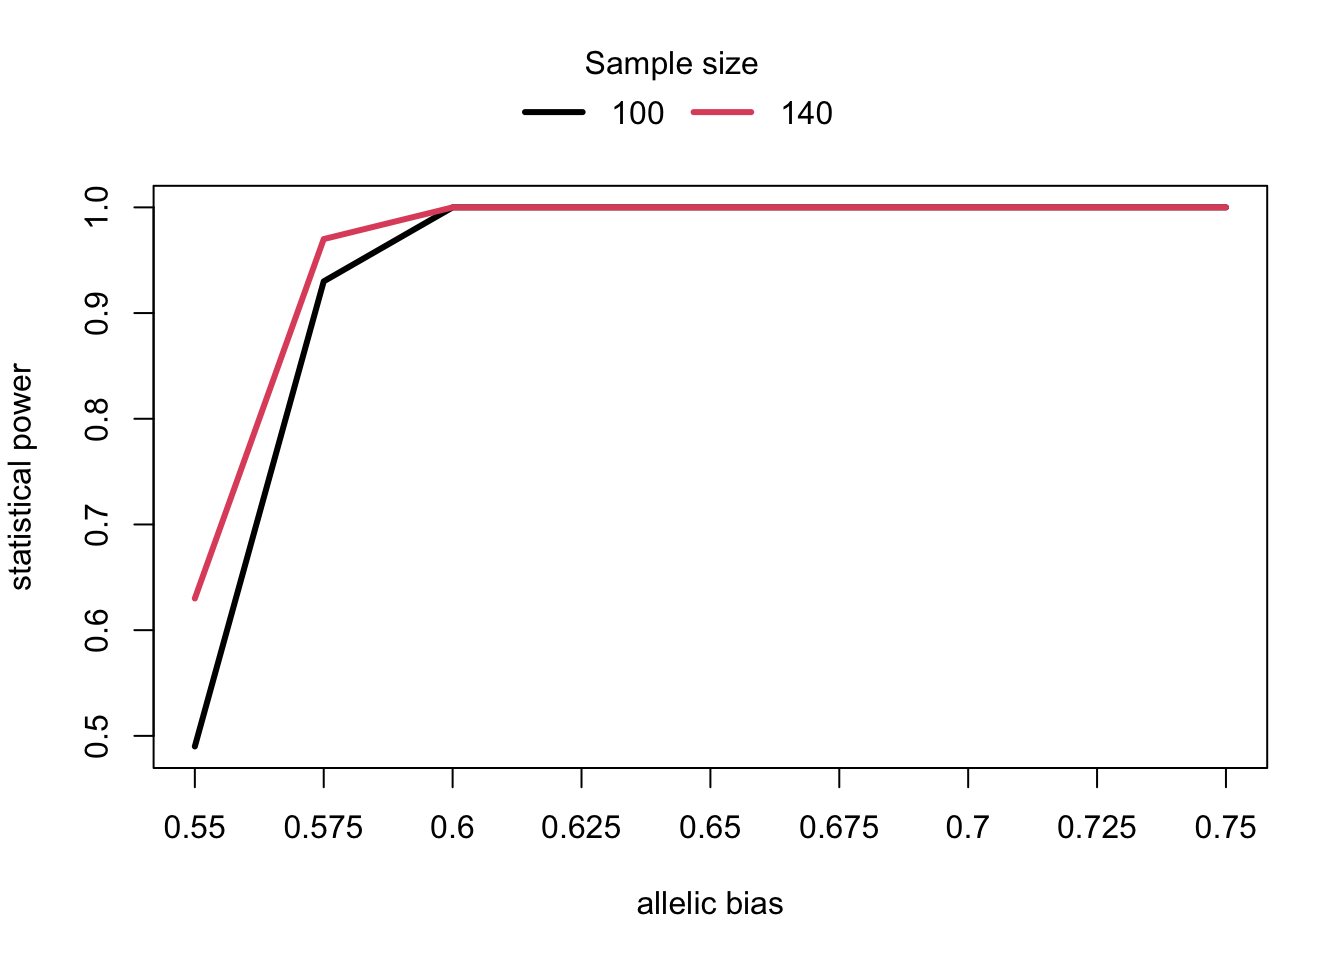
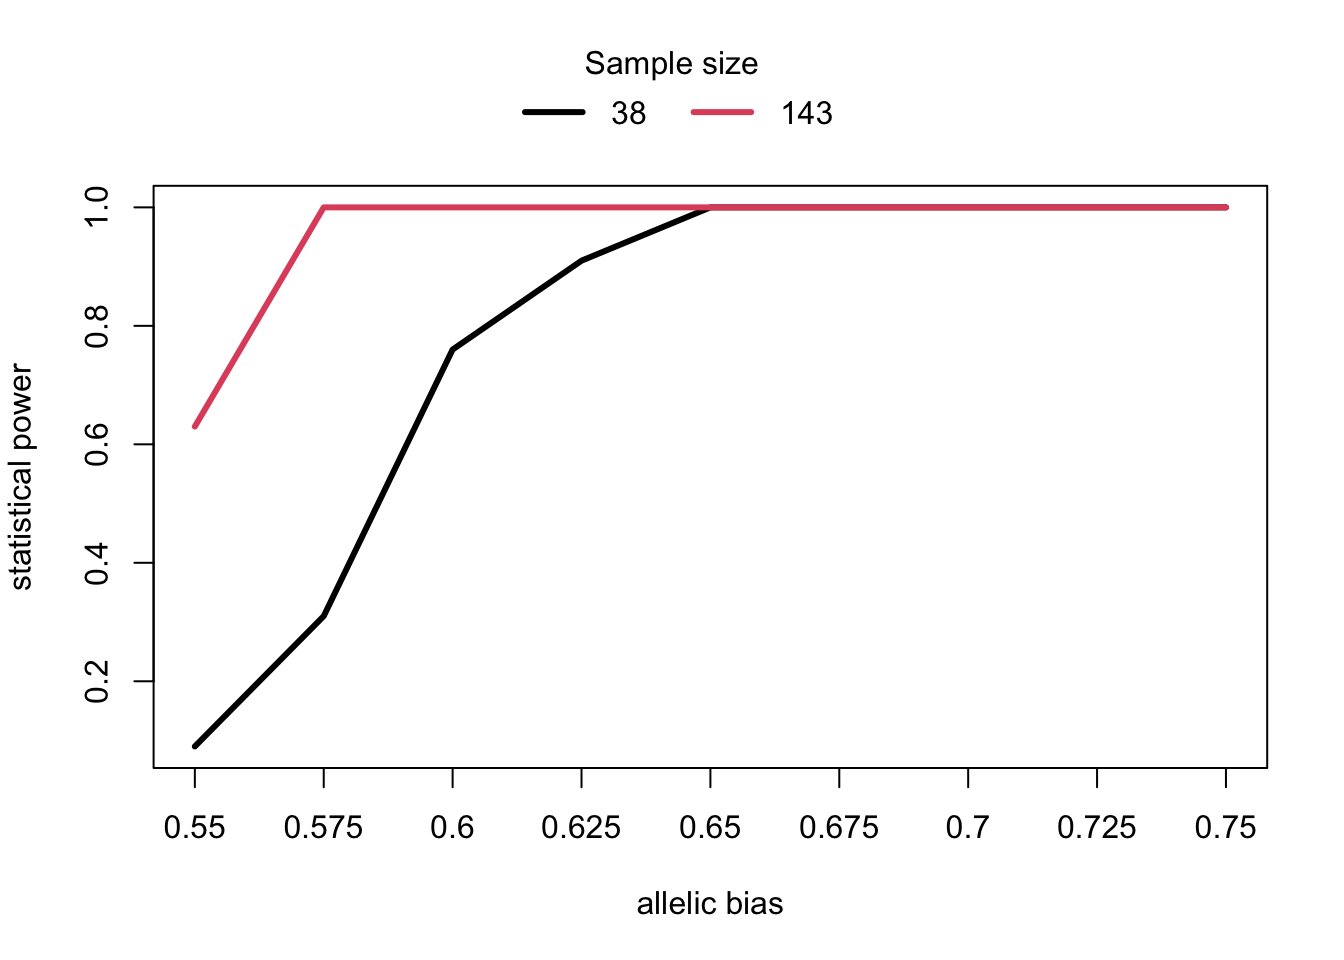
Build site.

diff --git a/docs/power_analysis.html b/docs/power_analysis.html
@@ -399,7 +399,7 @@ class="glyphicon glyphicon-ok text-success" aria-hidden="true"></span>
 <div class="tab-content">
 <div id="summary" class="tab-pane fade in active">
 <p>
-<strong>Last updated:</strong> 2025-10-27
+<strong>Last updated:</strong> 2025-10-28
 </p>
 <p>
 <strong>Checks:</strong> <span
@@ -530,15 +530,15 @@ project makes it easier to run your code on other machines.</p>
 <div class="panel panel-default">
 <div class="panel-heading">
 <p class="panel-title">
-<a data-toggle="collapse" data-parent="#workflowr-checks" href="#strongRepositoryversionstrongahrefhttpsgithubcomLifanLiangneuronstimeQTL100treec6d665509231edc81b34f6407d2796df5a46211etargetblankc6d6655a">
+<a data-toggle="collapse" data-parent="#workflowr-checks" href="#strongRepositoryversionstrongahrefhttpsgithubcomLifanLiangneuronstimeQTL100treedbd32fcd72ad10e4b8d2728302aa55033ab54887targetblankdbd32fca">
 <span class="glyphicon glyphicon-ok text-success"
 aria-hidden="true"></span> <strong>Repository version:</strong>
-<a href="https://github.com/LifanLiang/neuron_stim_eQTL100/tree/c6d665509231edc81b34f6407d2796df5a46211e" target="_blank">c6d6655</a>
+<a href="https://github.com/LifanLiang/neuron_stim_eQTL100/tree/dbd32fcd72ad10e4b8d2728302aa55033ab54887" target="_blank">dbd32fc</a>
 </a>
 </p>
 </div>
 <div
[2 lines of base64/hex data omitted]
 class="panel-collapse collapse">
 <div class="panel-body">
 <p>
@@ -548,7 +548,7 @@ reproducibility.
 </p>
 <p>
 The results in this page were generated with repository version
-<a href="https://github.com/LifanLiang/neuron_stim_eQTL100/tree/c6d665509231edc81b34f6407d2796df5a46211e" target="_blank">c6d6655</a>.
+<a href="https://github.com/LifanLiang/neuron_stim_eQTL100/tree/dbd32fcd72ad10e4b8d2728302aa55033ab54887" target="_blank">dbd32fc</a>.
 See the <em>Past versions</em> tab to see a history of the changes made
 to the R Markdown and HTML files.
 </p>
@@ -657,6 +657,40 @@ Message
 Rmd
 </td>
 <td>
+<a href="https://github.com/LifanLiang/neuron_stim_eQTL100/blob/dbd32fcd72ad10e4b8d2728302aa55033ab54887/analysis/power_analysis.Rmd" target="_blank">dbd32fc</a>
+</td>
+<td>
+Lifan Liang
+</td>
+<td>
+2025-10-28
+</td>
+<td>
+wflow_publish("analysis")
+</td>
+</tr>
+<tr>
+<td>
+html
+</td>
+<td>
+<a href="https://rawcdn.githack.com/LifanLiang/neuron_stim_eQTL100/0b76d483533029f6c7f2467344dc2aca74a1aca8/docs/power_analysis.html" target="_blank">0b76d48</a>
+</td>
+<td>
+Lifan Liang
+</td>
+<td>
+2025-10-27
+</td>
+<td>
+Build site.
+</td>
+</tr>
+<tr>
+<td>
+Rmd
+</td>
+<td>
 <a href="https://github.com/LifanLiang/neuron_stim_eQTL100/blob/c6d665509231edc81b34f6407d2796df5a46211e/analysis/power_analysis.Rmd" target="_blank">c6d6655</a>
 </td>
 <td>
@@ -752,8 +786,8 @@ all the reads from the heterozygote individuals.</p>
 <div id="median-of-reads-per-cell-line" class="section level3">
 <h3>Median of reads per cell line</h3>
 <p>From the previous analysis results on allele-specific open chromatin
-(ASoC), each sample added 10 reads to the total coverage on median. This
-is the same across all the context for ASoC results.</p>
+(ASoC), each heterozygote sample added 10 reads to the total coverage on
+median. This is the same across all the context for ASoC results.</p>
 <pre><code>0hr_GABA 0hr_nmgl 0hr_npgl 1hr_GABA 1hr_nmgl 1hr_npgl 6hr_GABA 6hr_nmgl 
 10.66667 10.16667 10.16667 10.66667 10.30000 10.42105 10.42857 10.00000 
 6hr_npgl 
@@ -830,14 +864,19 @@ trails. This represents the total coverage that increases with sample
 size (<span class="math inline">\(N_{read}=N_{sample} \times
 10\)</span>). The other is the success probability, which represents the
 allele-specific effect size.</p>
-<p>The samples size ranges from 90 to 150. The success probability takes
-a value in <span class="math inline">\(\{0.3,0.35,0.4,0.45\}\)</span>.
-For each combination of sample size and effect size, we sampled 200
-“loci” from the The distribution and run the Binomial test. The
+<div id="comparing-two-different-effective-sample-sizes"
+class="section level3">
+<h3>Comparing two different effective sample sizes</h3>
+<p>Given that there are two cohorts, one has 38 heterozygote individuals
+and the other 143. The success probability takes a value in the range
+of<span class="math inline">\([0.55,0.75]\)</span> with the step of
+0.025. For each combination of sample size and effect size, we sampled
+200 “loci” from the The distribution and run the Binomial test. The
 statistical power of the binomial test is calculated as the proportion
 of loci with P value &lt; 0.001 in each setting.</p>
-<pre class="r"><code>ratio &lt;- 22:30 * 0.025
-N_sample &lt;- c(100,140)
+<pre class="r"><code># Generate the data and 
+ratio &lt;- 22:30 * 0.025
+N_sample &lt;- c(38,143)
 N_trial &lt;- 100
 power &lt;- matrix(nrow=length(N_sample), ncol=length(ratio))
 colnames(power) &lt;- ratio
@@ -864,6 +903,62 @@ matplot(t(power), xaxt=&#39;n&#39;, xlab=&quot;allelic bias&quot;, type = &quot;
         lwd=3, ylab=&quot;statistical power&quot;)
 axis(side=1, at=1:ncol(power), labels=colnames(power))</code></pre>
 <p><img src="figure/power_analysis.Rmd/unnamed-chunk-6-1.png" width="672" style="display: block; margin: auto;" /></p>
+<p>
+<button type="button" class="btn btn-default btn-xs btn-workflowr btn-workflowr-fig" data-toggle="collapse" data-target="#fig-unnamed-chunk-6-1">
+Past versions of unnamed-chunk-6-1.png
+</button>
+</p>
+<div id="fig-unnamed-chunk-6-1" class="collapse">
+<div class="table-responsive">
+<table class="table table-condensed table-hover">
+<thead>
+<tr>
+<th>
+Version
+</th>
+<th>
+Author
+</th>
+<th>
+Date
+</th>
+</tr>
+</thead>
+<tbody>
+<tr>
+<td>
+<a href="https://github.com/LifanLiang/neuron_stim_eQTL100/blob/0b76d483533029f6c7f2467344dc2aca74a1aca8/docs/figure/power_analysis.Rmd/unnamed-chunk-6-1.png" target="_blank">0b76d48</a>
+</td>
+<td>
+Lifan Liang
+</td>
+<td>
+2025-10-27
+</td>
+</tr>
+</tbody>
+</table>
+</div>
+</div>
+</div>
+<div
+id="simulation-with-different-minor-allele-frequence-maf-from-the-total-sample-sizes"
+class="section level3">
+<h3>Simulation with different minor allele frequence (MAF) from the
+total sample sizes</h3>
+<p>Given the total cell line size of 38 and 143, we sample the number of
+heterozygote individuals with different MAF.</p>
+<div id="maf10" class="section level4">
+<h4>MAF=10%</h4>
+<p><img src="figure/power_analysis.Rmd/unnamed-chunk-7-1.png" width="672" style="display: block; margin: auto;" /></p>
+</div>
+<div id="maf20" class="section level4">
+<h4>MAF=20%</h4>
+<p><img src="figure/power_analysis.Rmd/unnamed-chunk-8-1.png" width="672" style="display: block; margin: auto;" /></p>
+</div>
+<div id="maf30" class="section level4">
+<h4>MAF=30%</h4>
+<p><img src="figure/power_analysis.Rmd/unnamed-chunk-9-1.png" width="672" style="display: block; margin: auto;" /></p>
 <br>
 <p>
 <button type="button" class="btn btn-default btn-workflowr btn-workflowr-sessioninfo" data-toggle="collapse" data-target="#workflowr-sessioninfo" style="display: block;">
@@ -902,6 +997,8 @@ loaded via a namespace (and not attached):
 [33] R6_2.6.1          processx_3.8.6    rmarkdown_2.29    callr_3.7.6      
 [37] magrittr_2.0.3    whisker_0.4.1     ps_1.9.1          promises_1.2.0.1 
 [41] htmltools_0.5.8.1 httpuv_1.6.5      stringi_1.7.6    </code></pre>
+</div>
+</div>
 </div>
 </div>
 
